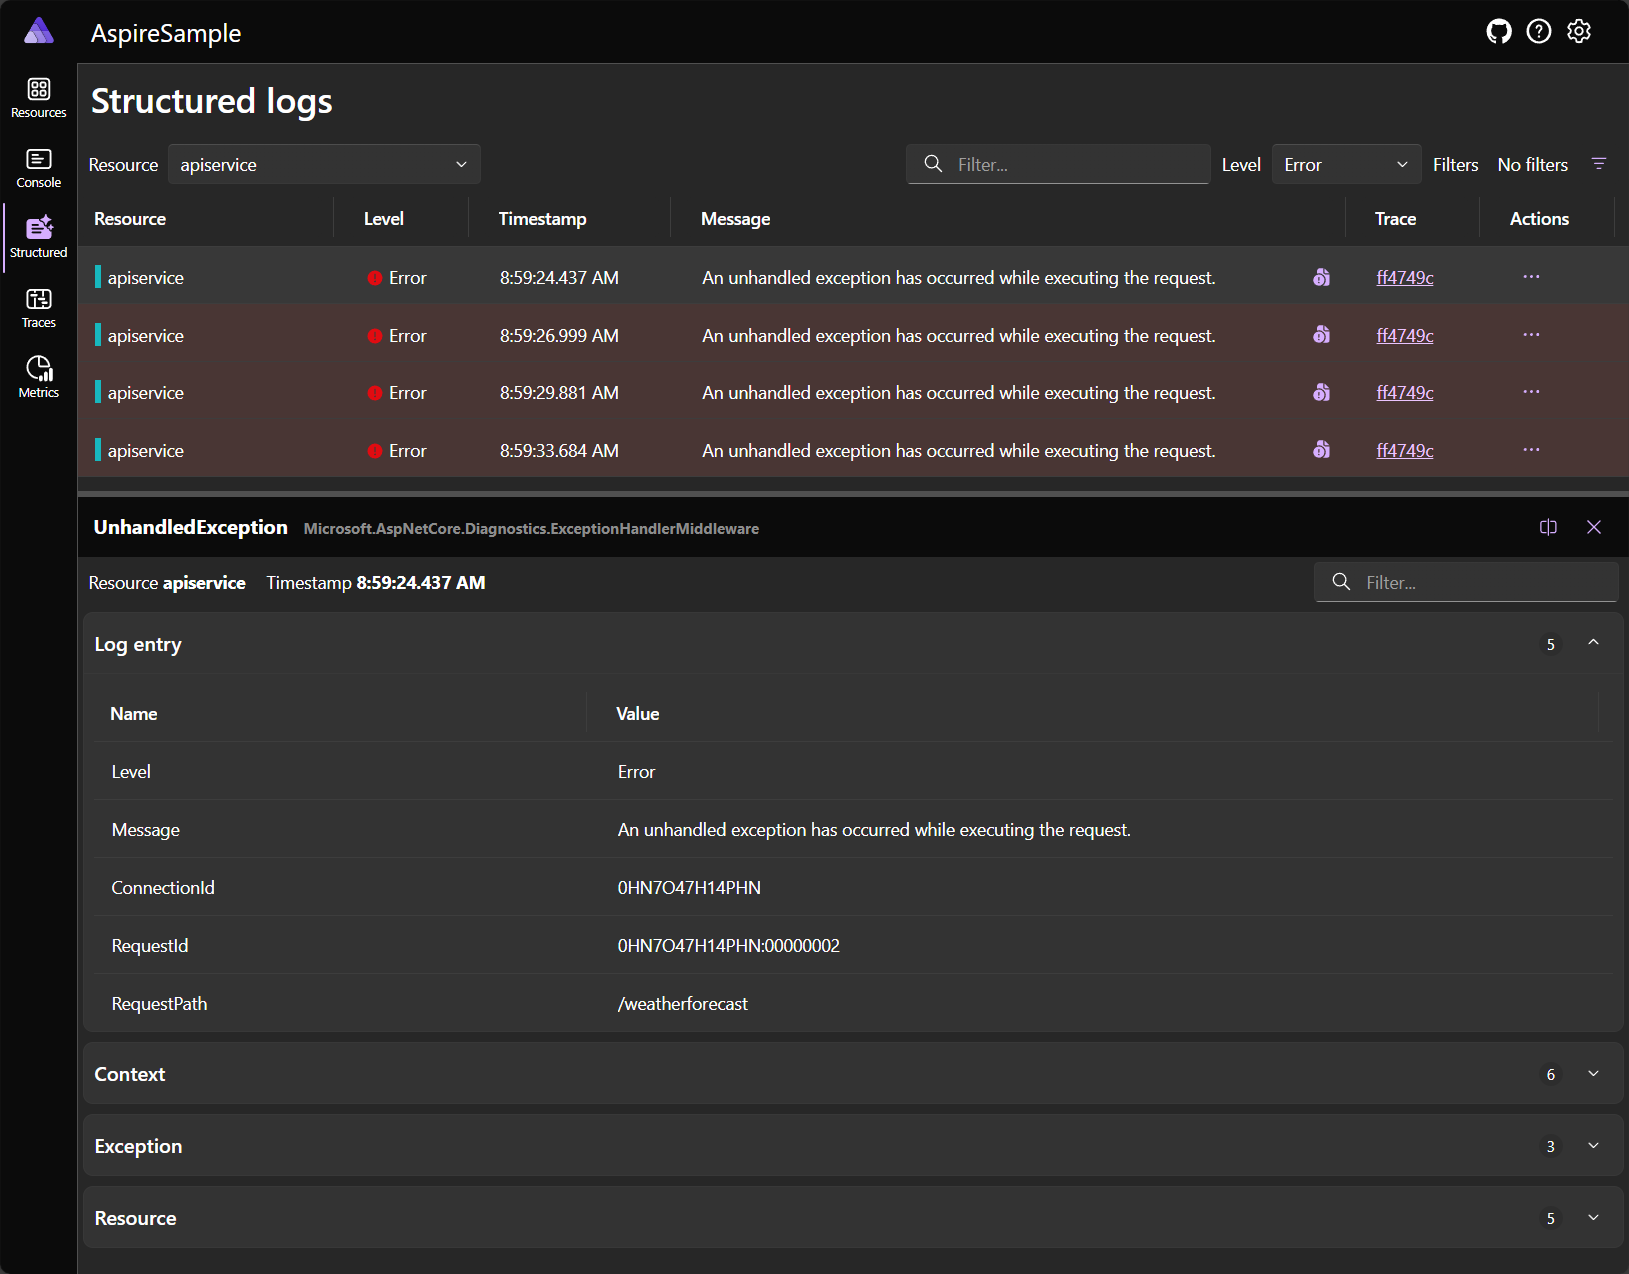
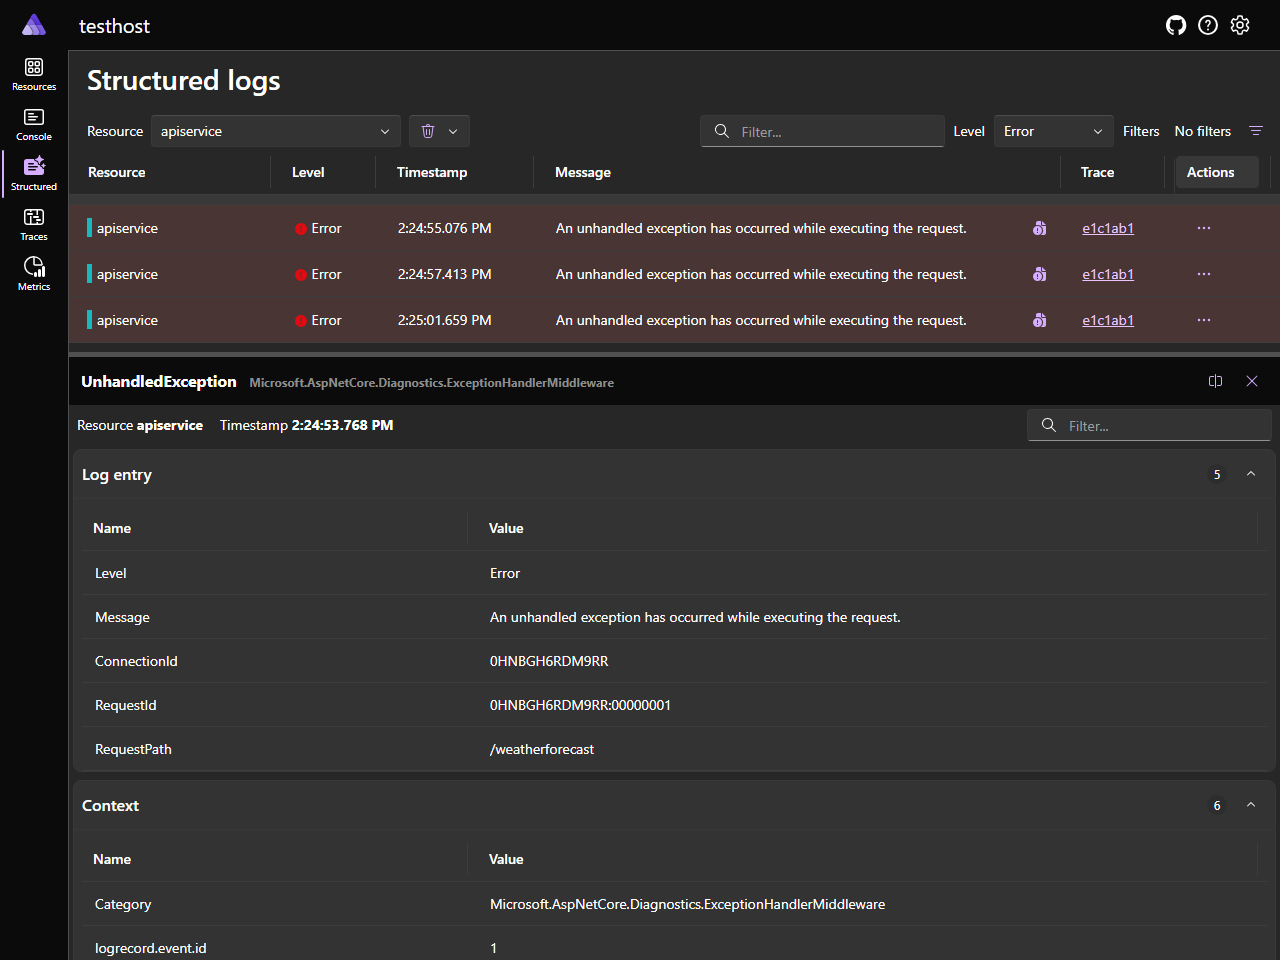
More coverage...

diff --git a/docs/fundamentals/dashboard/automation/aspire-dashboard/Aspire.Dashboard.ScreenCapture/CaptureImages.cs b/docs/fundamentals/dashboard/automation/aspire-dashboard/Aspire.Dashboard.ScreenCapture/CaptureImages.cs
@@ -60,7 +60,7 @@ public class CaptureImages(AppHostTestFixture appHostTestFixture) : PlaywrightTe
                 Path = "../../../../../../media/explore/resource-stop-action.png"
             });
         },
-        new() { Width = 1350, Height = 360 });
+        new() { Width = 1280, Height = 360 });
     }
 
     [Fact, Trait("Capture", "themes")]
@@ -96,7 +96,7 @@ public class CaptureImages(AppHostTestFixture appHostTestFixture) : PlaywrightTe
             // Change theme back to dark theme.
             await page.ClickAsync(DashboardSelectors.SettingsDialog.DarkThemeRadio);
         },
-        new() { Width = 1350, Height = 500 });
+        new() { Width = 1280, Height = 500 });
     }
 
     [Fact, Trait("Capture", "stop-start-resources")]
@@ -126,7 +126,7 @@ public class CaptureImages(AppHostTestFixture appHostTestFixture) : PlaywrightTe
                 Path = "../../../../../../media/explore/resource-stopped-action.png"
             });
         },
-        new() { Width = 1350, Height = 360 });
+        new() { Width = 1280, Height = 360 });
 
         await InteractWithPageAsync(async page =>
         {
@@ -156,7 +156,7 @@ public class CaptureImages(AppHostTestFixture appHostTestFixture) : PlaywrightTe
                 Path = "../../../../../../media/explore/resource-started-action.png"
             });
         },
-        new() { Width = 1350, Height = 360 });
+        new() { Width = 1280, Height = 360 });
     }
 
     [Fact, Trait("Capture", "resource-text-visualizer")]
@@ -194,7 +194,7 @@ public class CaptureImages(AppHostTestFixture appHostTestFixture) : PlaywrightTe
                 Path = "../../../../../../media/explore/text-visualizer-resources.png"
             });
         },
-        new() { Width = 1350, Height = 360 });
+        new() { Width = 1280, Height = 360 });
     }
 
     [Fact, Trait("Capture", "resource-details")]
@@ -211,9 +211,7 @@ public class CaptureImages(AppHostTestFixture appHostTestFixture) : PlaywrightTe
                 .Descendant("fluent-button:nth-of-type(3)");
             await page.ClickAsync(apiEllipsisButton);
 
-            var anchoredRegion = "fluent-anchored-region";
-            await page.WaitForSelectorAsync(anchoredRegion);
-            await page.HighlightElementAsync(anchoredRegion);
+            await page.HighlightElementAsync("fluent-anchored-region");
 
             await page.ScreenshotAsync(new()
             {
@@ -223,7 +221,7 @@ public class CaptureImages(AppHostTestFixture appHostTestFixture) : PlaywrightTe
             await page.ClickAsync(DashboardSelectors.ResourcePage.ViewDetailsOption);
             await page.ClickAsync(DashboardSelectors.ResourcePage.SplitPanel);
 
-            await page.ClickAndDragShadowRootElementAsync("split-panels", "#median", (0, 20));
+            await page.AdjustSplitPanelsGridTemplateAsync();
             await page.RedactElementTextAsync(DashboardSelectors.ResourcePage.ResourceDetailsProjectPath);
 
             await page.ClickAsync(apiEllipsisButton);
@@ -256,7 +254,7 @@ public class CaptureImages(AppHostTestFixture appHostTestFixture) : PlaywrightTe
                 Path = "../../../../../../media/explore/select-resource-type.png"
             });
         },
-        new() { Width = 1350, Height = 550 });
+        new() { Width = 1280, Height = 550 });
 
         await InteractWithPageAsync(async page =>
         {
@@ -275,7 +273,7 @@ public class CaptureImages(AppHostTestFixture appHostTestFixture) : PlaywrightTe
             await page.ClickAsync(DashboardSelectors.ResourcePage.ViewDetailsOption);
             await page.ClickAsync(DashboardSelectors.ResourcePage.SplitPanel);
 
-            await page.ClickAndDragShadowRootElementAsync(DashboardSelectors.SplitPanels, DashboardSelectors.MedianId, (0, 20));
+            await page.AdjustSplitPanelsGridTemplateAsync();
 
             await page.ClickAsync(DashboardSelectors.ResourcePage.FilterButton);
 
@@ -284,7 +282,7 @@ public class CaptureImages(AppHostTestFixture appHostTestFixture) : PlaywrightTe
                 Path = "../../../../../../media/explore/resources-filtered-containers.png"
             });
         },
-        new() { Width = 1350, Height = 600 });
+        new() { Width = 1280, Height = 600 });
     }
 
     [Fact, Trait("Capture", "resource-errors")]
@@ -306,11 +304,76 @@ public class CaptureImages(AppHostTestFixture appHostTestFixture) : PlaywrightTe
                 WaitUntil = WaitUntilState.NetworkIdle
             });
 
+            await Task.Delay(7_500);
+
+            await page.BringToFrontAsync();
             await page.ScreenshotAsync(new()
             {
                 Path = "../../../../../../media/explore/projects-errors.png"
             });
+
+            // Click the api "errors" button
+            var apiErrorButton = FluentDataGridSelector.Grid.Body.Row(3).Cell(2)
+                .Descendant("> div > fluent-anchor a");
+            await page.ClickAsync(apiErrorButton);
+
+            // Click the first actions button
+            var firstActionButton = FluentDataGridSelector.Grid.Body.Row(2).Cell(6)
+                .Descendant("fluent-button");
+            await page.ClickAsync(firstActionButton);
+            await page.HighlightElementAsync("fluent-anchored-region");
+
+            await page.ScreenshotAsync(new()
+            {
+                Path = "../../../../../../media/explore/structured-logs-errors.png"
+            });
         },
-        new() { Width = 1350, Height = 380 });
+        new() { Width = 1280, Height = 420 });
+    }
+
+    [Fact, Trait("Capture", "structured-logs-errors")]
+    public async Task CaptureStructuredLogsErrorsImages()
+    {
+        await ConfigureAsync<SampleAppHost>(["API_THROWS_EXCEPTION=true"]);
+
+        await InteractWithPageAsync(async page =>
+        {
+            // Login to the dashboard
+            await page.LoginAndWaitForRunningResourcesAsync(DashboardLoginToken);
+
+            // Get the weather web frontend URL
+            var url = await page.GetResourceEndpointAsync();
+            var webPage = await page.Context.NewPageAsync();
+
+            await webPage.GotoAsync($"{url}/weather", new()
+            {
+                WaitUntil = WaitUntilState.NetworkIdle
+            });
+
+            await Task.Delay(1_500);
+
+            await page.BringToFrontAsync();
+
+            // Click the api "errors" button
+            var apiErrorButton = FluentDataGridSelector.Grid.Body.Row(3).Cell(2)
+                .Descendant("> div > fluent-anchor a");
+            await page.ClickAsync(apiErrorButton);
+
+            // Click the first actions button
+            var firstActionButton = FluentDataGridSelector.Grid.Body.Row(2).Cell(6)
+                .Descendant("fluent-button");
+            await page.ClickAsync(firstActionButton);
+
+            await page.ClickAsync(DashboardSelectors.ResourcePage.ViewDetailsOption);
+            await page.ClickAsync(DashboardSelectors.ResourcePage.SplitPanel);
+
+            await page.AdjustSplitPanelsGridTemplateAsync();
+
+            await page.ScreenshotAsync(new()
+            {
+                Path = "../../../../../../media/explore/structured-logs-errors-view.png"
+            });
+        },
+        new() { Width = 1280, Height = 960 });
     }
 }

diff --git a/docs/fundamentals/dashboard/automation/aspire-dashboard/Aspire.Dashboard.ScreenCapture/Extensions/PageExtensions.cs b/docs/fundamentals/dashboard/automation/aspire-dashboard/Aspire.Dashboard.ScreenCapture/Extensions/PageExtensions.cs
@@ -48,6 +48,19 @@ internal static class PageExtensions
             """);
     }
 
+    public static async Task AdjustSplitPanelsGridTemplateAsync(
+        this IPage page, string selector = "split-panels", string gridTemplateRows = "0.25fr 5px 0.75fr")
+    {
+        await page.EvaluateAsync($$"""
+            const el = document.querySelector('{{selector}}');
+            if (el) {
+              el.style.gridTemplateRows="{{gridTemplateRows}}";
+            } else {
+              console.error('Element not found: {{selector}}');
+            }
+            """);
+    }
+
     public static async Task ClickAndDragShadowRootElementAsync(
         this IPage page, string hostSelector, string shadowSelector, MouseMovement mouseMovement)
     {

diff --git a/docs/fundamentals/dashboard/automation/aspire-dashboard/AspireSample/AspireSample.AppHost/Program.cs b/docs/fundamentals/dashboard/automation/aspire-dashboard/AspireSample/AspireSample.AppHost/Program.cs
@@ -3,7 +3,7 @@
 var cache = builder.AddRedis("cache");
 
 var apiService = builder.AddProject<Projects.AspireSample_ApiService>("apiservice")
-    .WithEnvironment("THROW_EXCEPTION", builder.Configuration["API_THROWS_EXCEPTION"]);
+    .WithEnvironment("THROW_EXCEPTION", builder.Configuration["API_THROWS_EXCEPTION"] = "true");
 
 builder.AddProject<Projects.AspireSample_Web>("webfrontend")
     .WithExternalHttpEndpoints()

diff --git a/docs/fundamentals/dashboard/automation/aspire-dashboard/Aspire.Dashboard.ScreenCapture/README.md b/docs/fundamentals/dashboard/automation/aspire-dashboard/Aspire.Dashboard.ScreenCapture/README.md
@@ -10,4 +10,5 @@ dotnet test --filter Capture=resource-text-visualizer
 dotnet test --filter Capture=resource-details
 dotnet test --filter Capture=resource-filtering
 dotnet test --filter Capture=resource-errors
+dotnet test --filter Capture=structured-logs-errors
 ```
